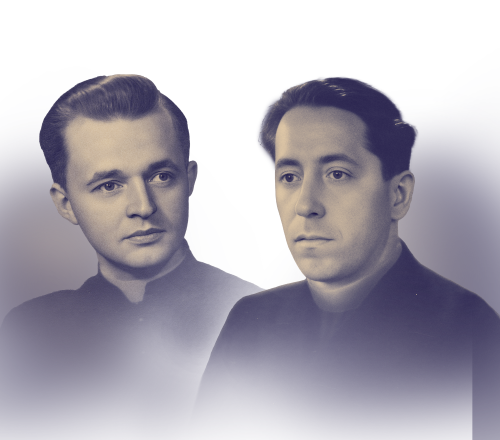
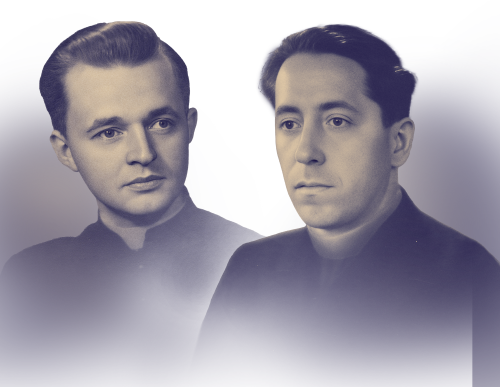
optimalizace css

Changed region(s): [[0.0, 0.031, 1.0, 0.7132], [0.42, 0.7132, 0.48, 0.8062], [0.39, 0.8062, 0.42, 0.8372]]

diff --git a/assets/styles/global.scss b/assets/styles/global.scss
@@ -1,15 +1,17 @@
 // assets/styles/global.scss
-.bula-drbola{
+.bula-drbola::after{
+    content: "";
     width: 100%;
-    height: 500px; /* adjust the height as needed */
-    background-image: url('./images/background.png');
+    height: 475px; /* adjust the height as needed */
+    background-image: url('./images/background.jpg');
     background-size: cover; /* makes the image cover the entire area */
     background-position: center; /* ensures the image is centered */
     background-repeat: no-repeat; /* prevent repeating the image */
     display: block;
-    position: relative;
-    top: -88px;
-  }
+    position: absolute;
+    z-index: -1;
+    top: 0px;
+}
 
 .podbarveni{
     width: 100%;
@@ -20,11 +22,7 @@
 
 .posun {
     position: relative;
-    top: -140px;
-}
-
-.video-bula-drbola iframe{
-    border-radius: 7px;
+    top: -80px;
 }
 
 .footer{
